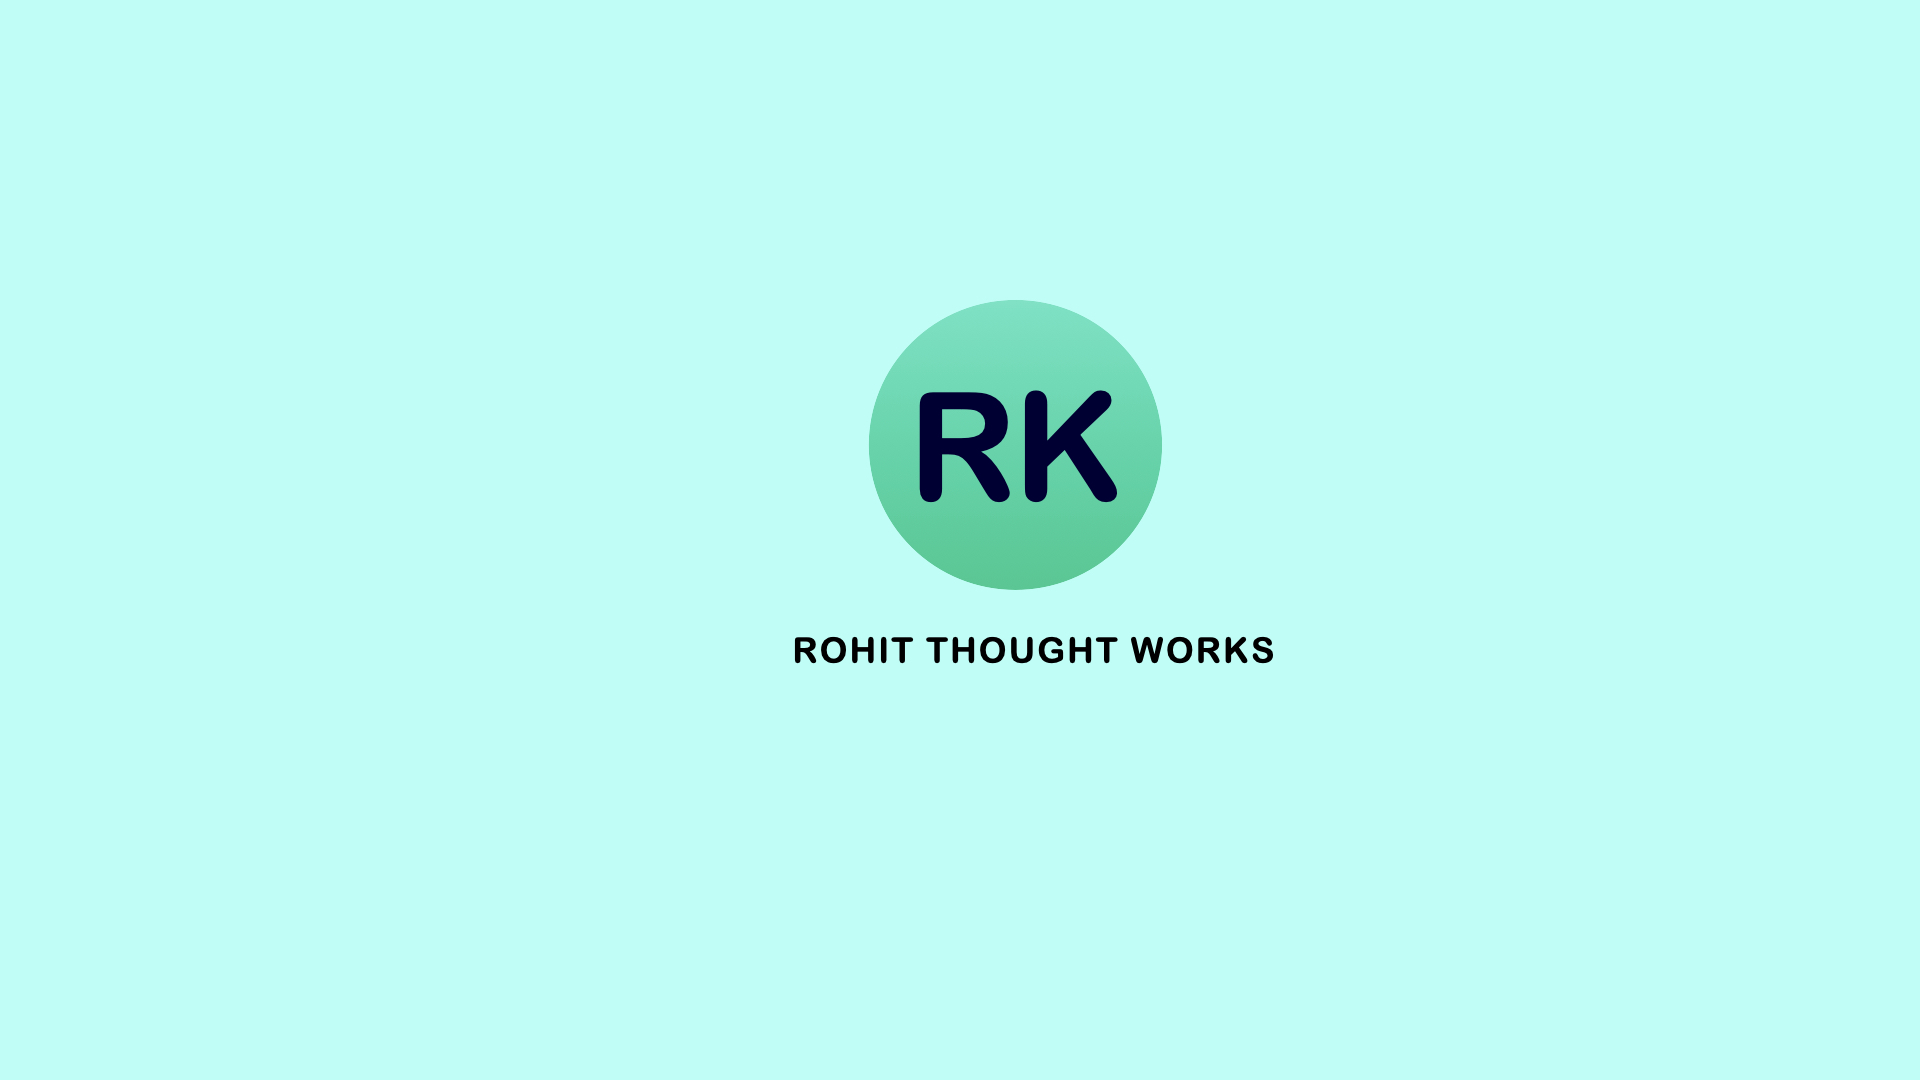
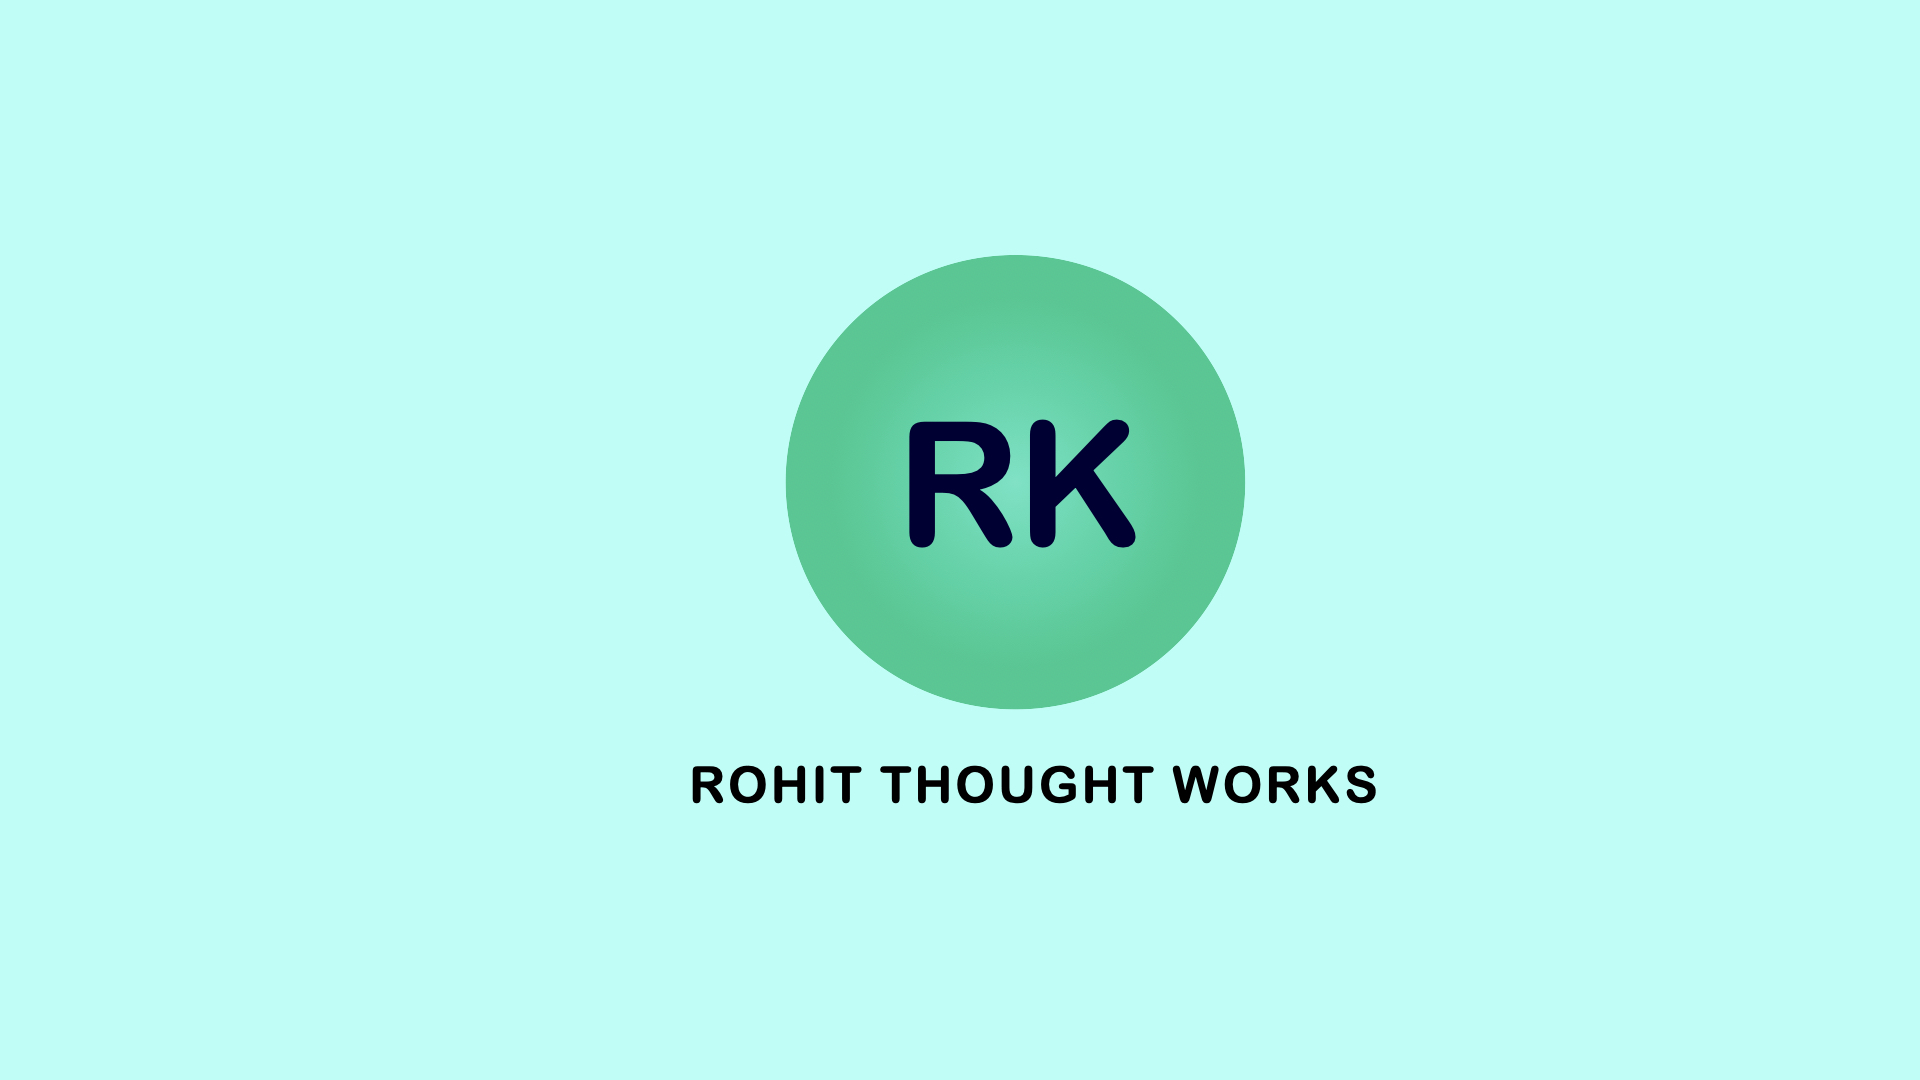
Updated OGImage design

Changed region(s): [[0.4062, 0.2139, 0.6562, 0.6722], [0.3438, 0.7028, 0.7188, 0.7639]]

diff --git a/components/layout.js b/components/layout.js
@@ -16,7 +16,7 @@ export default function Layout({ children, home }) {
         <link href="https://fonts.googleapis.com/css2?family=Sen:wght@400;700&display=swap" rel="stylesheet"></link>
         <meta
           name="description"
-          content="Thoughts are butterflies.Enjoy the show.Be a Flaneur."
+          content="Thoughts never captured are thoughts wasted."
         />
         <meta
           property="og:image"
